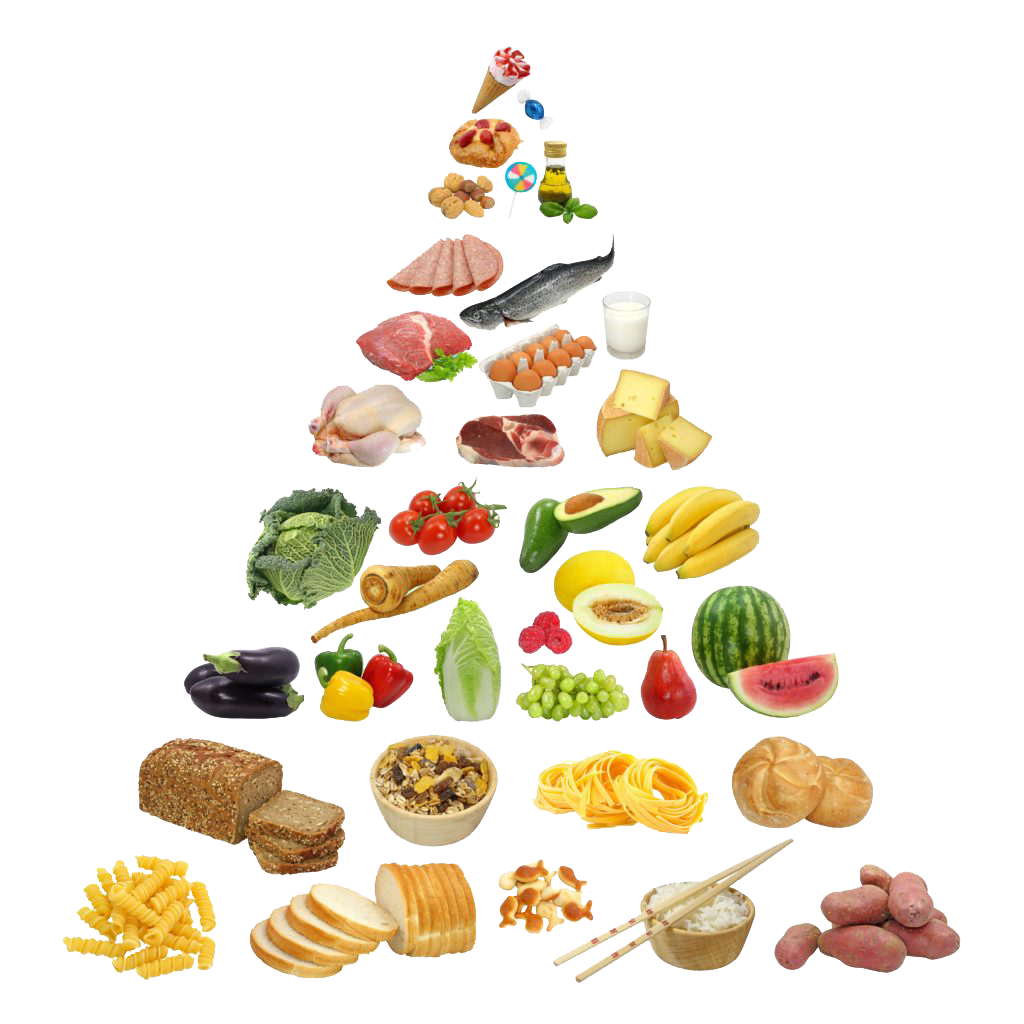
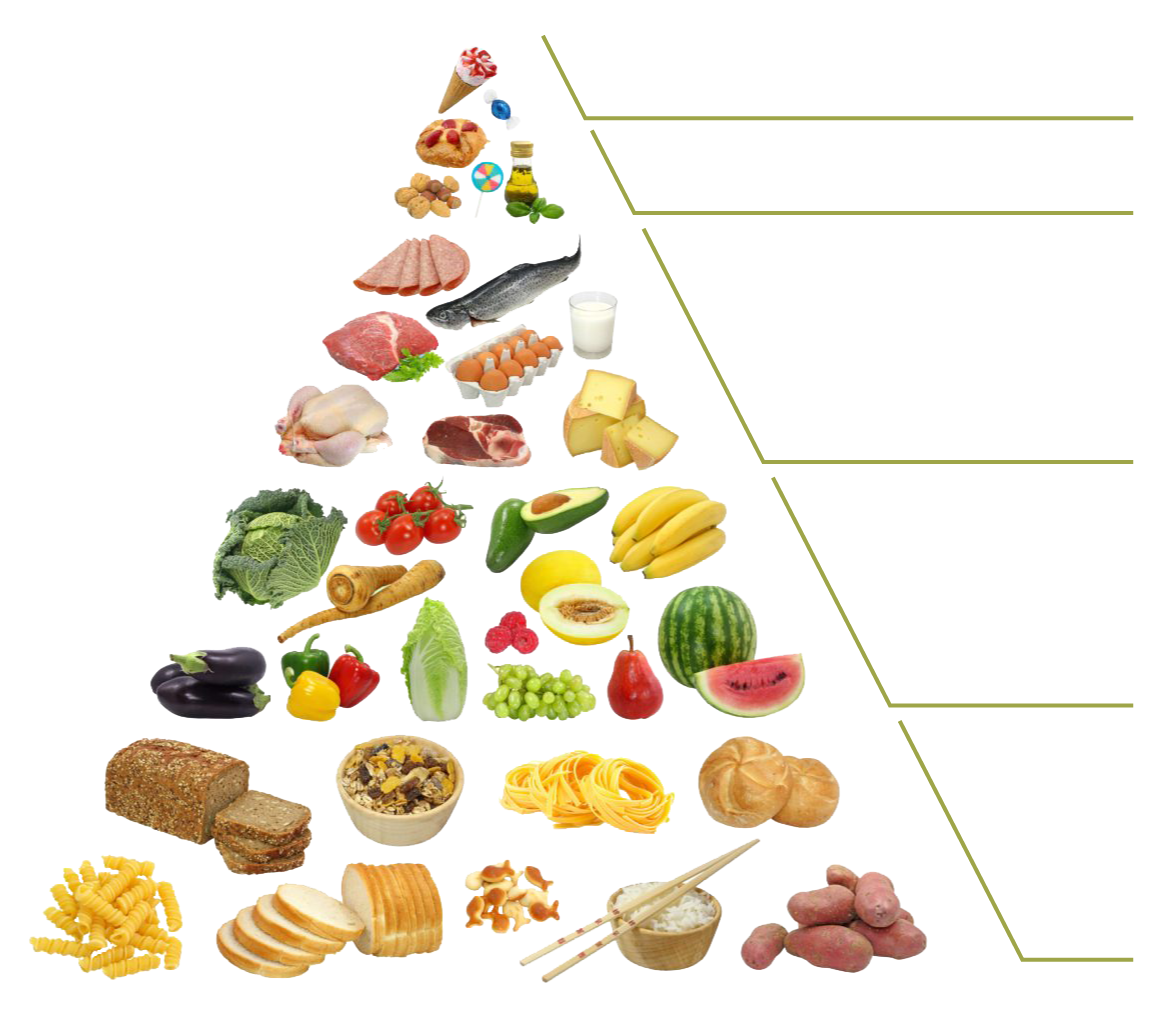
correcciones en index, almacen y form

diff --git a/contacto.html b/contacto.html
@@ -36,33 +36,33 @@
             <!--Formulario-->
             <fieldset class="container">
                 <legend>Completá tus datos de contacto</legend>
-                    <form class="row g-3">
+                    <form class="row g-3 w-80 p-1 m-1">
                         <div class="col-md-4">
                             <label for="validationDefault01" class="form-label">Nombre</label>
-                            <input type="text" class="form-control" id="validationDefault01" value="" required placeholder="Ingrese su nombre">
+                            <input type="text" class="form-control bg-dark text-light" id="validationDefault01" value="" required placeholder="Ingrese su nombre">
                         </div>
                         <div class="col-md-4">
                             <label for="validationDefault02" class="form-label">Apellido</label>
-                            <input type="text" class="form-control" id="validationDefault02" value="" required placeholder="Ingrese su apellido">
+                            <input type="text" class="form-control bg-dark text-light" id="validationDefault02" value="" required placeholder="Ingrese su apellido">
                         </div>
                         <div class="col-md-6">
                             <label for="validationDefault03" class="form-label">DNI</label>
-                            <input type="text" class="form-control" id="validationDefault03" required>
+                            <input type="text" class="form-control bg-dark text-light" id="validationDefault03" required>
                         </div>
                         <div class="col-md-6">
                             <label for="validationDefault03" class="form-label">Celular</label>
-                            <input type="text" class="form-control" id="validationDefault03" required value="" required placeholder="(cód. área) 15 xxxx xxxx">
+                            <input type="text" class="form-control bg-dark text-light" id="validationDefault03" required value="" required placeholder="(cód. área) 15 xxxx xxxx">
                         </div>
                         <div class="col-md-4">
-                            <label for="validationDefaultUsername" class="form-label">Correo electrónico</label>
+                            <label for="validationDefaultUsername" class="form-label text-light">Correo electrónico</label>
                             <div class="input-group">
-                                <span class="input-group-text" id="inputGroupPrepend2">@</span>
-                                <input type="text" class="form-control" id="validationDefaultUsername"  aria-describedby="inputGroupPrepend2" required>
+                                <span class="input-group-text bg-dark text-light" id="inputGroupPrepend2">@</span>
+                                <input type="text" class="form-control bg-dark text-light" id="validationDefaultUsername"  aria-describedby="inputGroupPrepend2" required>
                             </div>
                         </div>
                         <div class="col-md-3">
-                            <label for="validationDefault04" class="form-label">Tipo de consulta</label>
-                            <select class="form-select" id="validationDefault04" required>
+                            <label for="validationDefault04" class="form-label bg-dark">Tipo de consulta</label>
+                            <select class="form-select bg-dark text-light" id="validationDefault04" required>
                                 <option selected disabled value="">Elegir una opción</option>
                                 <option>Dudas sobre el servicio</option>
                                 <option>Estado de mi pedido</option>
@@ -72,16 +72,16 @@
                         </div>
                         <div class="form-group">
                             <label for="exampleFormControlTextarea1">Detallá tu consulta</label>
-                            <textarea class="form-control" id="exampleFormControlTextarea1" rows="3"></textarea>
+                            <textarea class="form-control bg-dark text-light" id="exampleFormControlTextarea1" rows="3"></textarea>
                           </div>
                         <div class="form-check">
-                            <input class="form-check-input" type="checkbox" value="" id="invalidCheck2" required>
-                            <label class="form-check-label" for="invalidCheck2">
+                            <input class="form-check-input bg-secondary" type="checkbox" value="" id="invalidCheck2" required>
+                            <label class="form-check-label " for="invalidCheck2">
                             Acepto recibir novedades y beneficios.
                             </label>
                         </div>
                         <div class="col-12">
-                            <button class="btn btn-light" type="submit">Enviar consulta</button>
+                            <button class="btn btn-light bg-dark text-light" type="submit">Enviar consulta</button>
                         </div>
                     </form>
             </fieldset>

diff --git a/nutricion.html b/nutricion.html
@@ -30,46 +30,34 @@
         <main class="main">
             <div class="nutricion">
                 <h2 class="nutricion__titulo">Información nutricional</h2>
-                <p class="nutricion__bajada">Lorem ipsum dolor sit amet, consectetur adipisicing elit. Rerum impedit vitae laborum, ullam necessitatibus quaerat!</p>
+                <p class="nutricion__bajada">Mantener una alimentacion saludable es muy importante, por eso, te acercamos todo lo que debes saber al momento de comprar nuestros productos.</p>
             </div>
             <section class="piramide">
                 <div class="piramide__nutri">
-                    <img class="nutri__img" src="Multimedia/Nutricion/piramide-alimentaria.png" alt="Pirámide nutricional">
+                    <img class="nutri__img" src="Multimedia/Nutricion/piramide-alimentaria-c.png" alt="Pirámide nutricional">
+                    <p class="nutri__descripcion">Pirámide de alimentación saludable</p>
                 </div>
                 <div class="piramide__nutri">
-                    <ol class="nutri__lista">
-                        <li class="lista__nivel">Nivel 1</li>
-                            <ul class="nivel__ul">
-                                <li class="ul__item">Pan</li>
-                                <li class="ul__item">Cereales</li>
-                                <li class="ul__item">Arroz</li>
-                                <li class="ul__item">Pastas</li>
-                            </ul>
-                        <li class="lista__nivel">Nivel 2</li>
-                            <ul class="nivel__ul">
-                                <li class="ul__item">Frutas</li>
-                                <li class="ul__item">Hortalizas</li>
-                            </ul>
-                        <li class="lista__nivel">Nivel 3</li>
-                            <ul class="nivel__ul">
-                                <li class="ul__item">Carnes</li>
-                                <li class="ul__item">Pescados</li>
-                                <li class="ul__item">Lácteos</li>
-                                <li class="ul__item">Huevos</li>
-                                <li class="ul__item">Legumbres</li>
-                            </ul>
-                        <li class="lista__nivel">Nivel 4</li>
-                            <ul class="nivel__ul">
-                                <li class="ul__item">Aceites</li>
-                                <li class="ul__item">Grasas</li>
-                                <li class="ul__item">Frutos secos</li>
-                            </ul>
-                        <li class="lista__nivel">Nivel 5</li>
-                            <ul class="nivel__ul">
-                                <li class="ul__item">Azúcar</li>
-                                <li class="ul__item">Miel</li>
-                            </ul>
-                    </ol>
+                    <div>
+                        <h3>Verduras y hortalizas</h3>
+                        <p>Proporcionan muchas de las vitaminas y de los minerales que necesitamos para tener una buena salud. Las verduras son bajas en calorías por naturaleza, y la fibra que contienen nos ayuda a sentirnos satisfechos.</p>
+                    </div>
+                    <div>
+                        <h3>Frutas</h3>
+                        <p>Al igual que la verdura, la fruta contiene vitaminas, minerales y fibra. La fruta entera es la mejor elección: los zumos de frutas tienen más azúcar y más calorías por ración que la fruta entera, y no contienen fibra.</p>
+                    </div>
+                    <div>
+                        <h3>Cereales</h3>
+                        <p>Los cereales integrales (como la harina de trigo integral) son más nutritivos y tienen mucha fibra dietética que te puede ayudar a sentirte más lleno durante más tiempo. </p>
+                    </div>
+                    <div>
+                        <h3>Proteínas</h3>
+                        <p>Los alimentos de alto contenido proteico ayudan al cuerpo a construir y mantener sus tejidos. También aportan vitaminas y minerales importantes, como el hierro.</p>
+                    </div>
+                    <div>
+                        <h3>Lácteos</h3>
+                        <p>El calcio es fundamental para tener unos huesos y unos dientes fuertes. Opta por productos lácteos sin grasa de bajo contenido en grasas la mayoría de las veces.</p>
+                    </div>
                 </div>
             </section>
         </main>

diff --git a/css/estilos.css b/css/estilos.css
@@ -117,19 +117,15 @@ h4 {
 
 .piramide {
   display: flex;
-  flex-direction: row;
-  margin: 10px; }
+  margin: 2%;
+  align-content: center;
+  justify-content: center; }
   .piramide .piramide__nutri {
     display: flex;
-    align-items: center; }
-    .piramide .piramide__nutri .nutri__lista {
-      color: #EFD0B1; }
-      .piramide .piramide__nutri .nutri__lista .lista__nivel {
-        color: #9EA548;
-        font-weight: bold;
-        list-style-type: none; }
-        .piramide .piramide__nutri .nutri__lista .lista__nivel .nivel__ul .ul__item {
-          text-align: left; }
+    flex-direction: column;
+    text-align: center; }
+    .piramide .piramide__nutri .nutri__img {
+      padding: 1%; }
 
 .contacto {
   padding: 10px; }
@@ -430,14 +426,15 @@ legend {
       font-size: 14px;
       color: #EFD0B1; }
   .metodoCompra {
-    margin: 3%; }
+    margin: 1%;
+    padding: 1%; }
     .metodoCompra .metodoCompra__cont {
       flex-direction: row;
       justify-content: space-evenly;
-      align-content: center;
-      margin: 1%; }
+      align-content: center; }
       .metodoCompra .metodoCompra__cont .cont__bajadaMetodo {
-        flex-direction: row; }
+        flex-direction: row;
+        padding: 1%; }
       .metodoCompra .metodoCompra__cont .cont__grupo {
         flex-direction: column;
         align-items: center;

diff --git a/scss/estiloScss.scss b/scss/estiloScss.scss
@@ -182,33 +182,24 @@ h4{
 
 .piramide{
     display: flex;
-    flex-direction: row;
-    margin: 10px;
+    margin: 2%;
+    align-content: center;
+    justify-content: center;
 
     .piramide__nutri{
         display: flex;
-        align-items: center;
+        flex-direction: column;
+        text-align: center;
+
+        .nutri__descripcion{
+        }
 
         .nutri__img{
-
+            padding: 1%;
         }
+  
 
-        .nutri__lista{
-            color: #EFD0B1;
-
-            .lista__nivel{
-                color: #9EA548;
-                font-weight: bold;
-                list-style-type: none;
-
-                .nivel__ul{
-
-                    .ul__item{
-                        text-align: left;
-                    }
-                }
-            }
-        }
+        
     }
 }
 
@@ -735,16 +726,17 @@ legend{
         }
 
     .metodoCompra{
-        margin: 3%;
+        margin: 1%;
+        padding: 1%;
 
         .metodoCompra__cont{
             flex-direction: row;
             justify-content: space-evenly;
             align-content: center;
-            margin: 1%;
     
             .cont__bajadaMetodo{
                 flex-direction: row;
+                padding: 1%;
             }
     
             .cont__grupo{

diff --git a/index.html b/index.html
@@ -10,7 +10,6 @@
     <link href="https://cdn.jsdelivr.net/npm/bootstrap@5.0.2/dist/css/bootstrap.min.css" rel="stylesheet" integrity="sha384-EVSTQN3/azprG1Anm3QDgpJLIm9Nao0Yz1ztcQTwFspd3yD65VohhpuuCOmLASjC" crossorigin="anonymous">
     <link href="https://fonts.googleapis.com/css2?family=Quicksand:wght@300&display=swap" rel="stylesheet">
     <link href="https://fonts.googleapis.com/css2?family=Quicksand:wght@300&display=swap" rel="stylesheet">
-    <link href="https://unpkg.com/aos@2.3.1/dist/aos.css" rel="stylesheet">
     <link rel="stylesheet" href="css/estilos.css">
 </head>
 <body>
